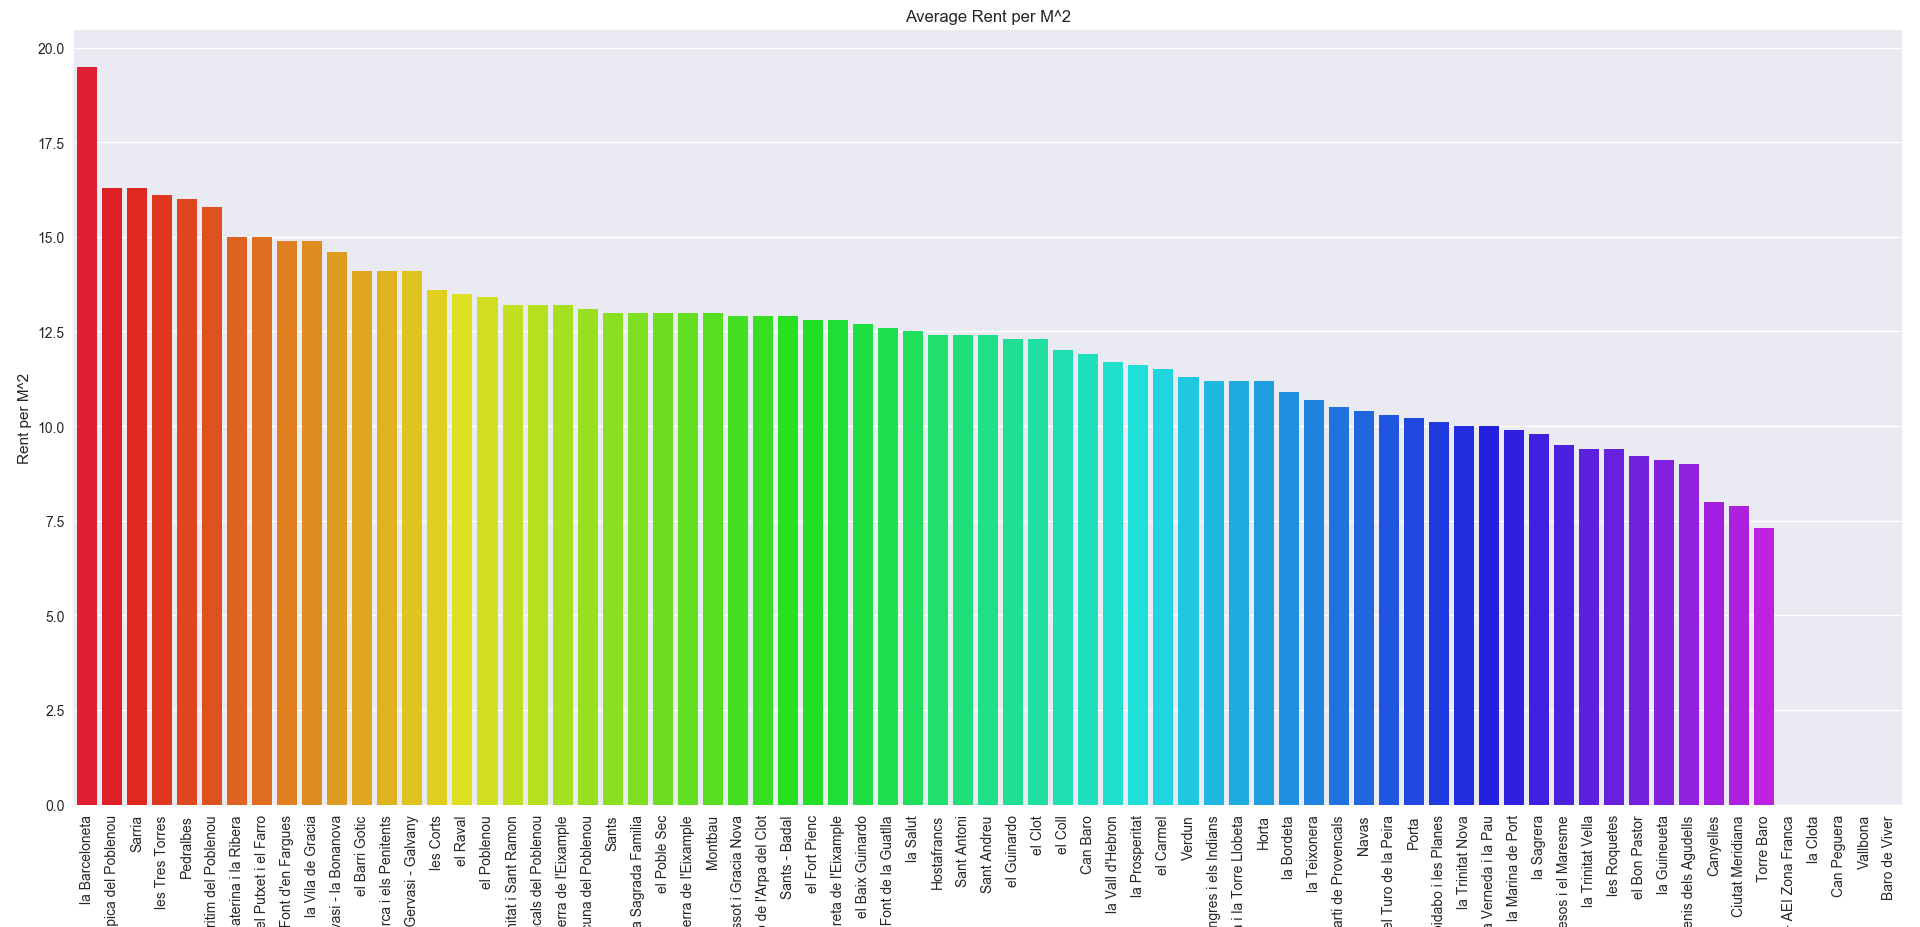
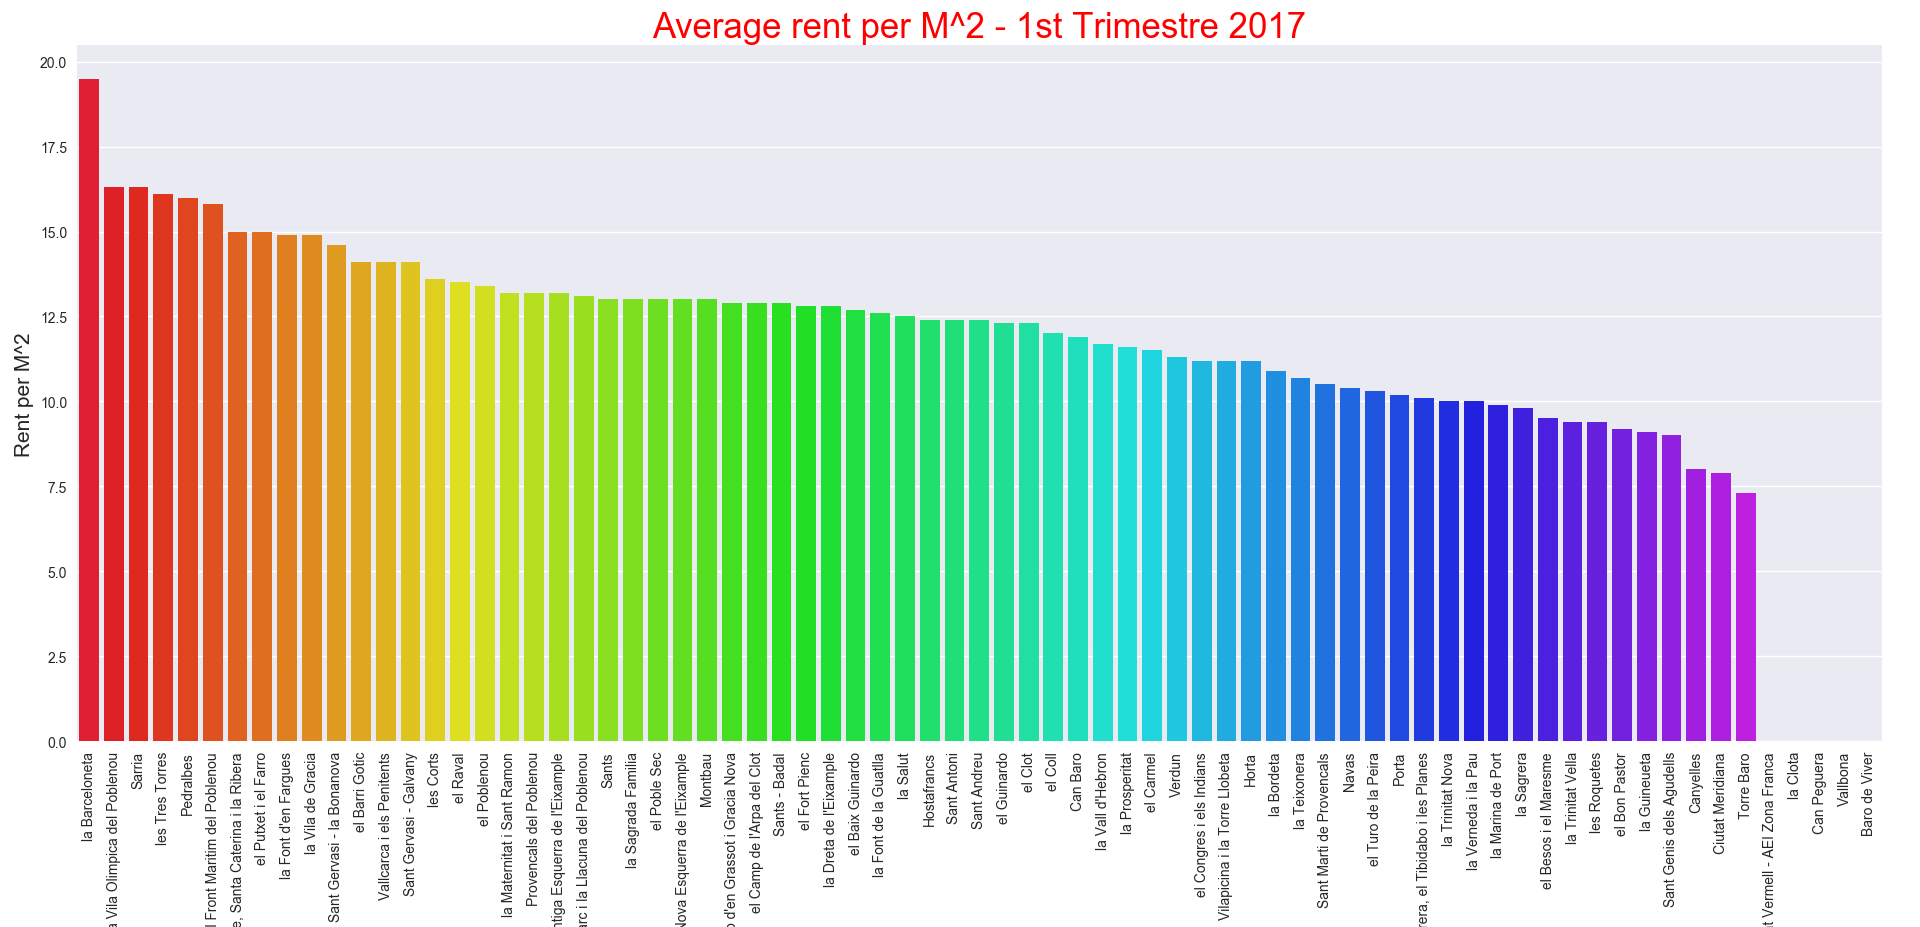
improved comparison graphs

diff --git a/visualization.py b/visualization.py
@@ -33,15 +33,18 @@ colors = ['RdPu', 'YlGn', 'OrRd', 'YlOrRd']
 #
 #     map.save(str(columns[i])+'.html')
 
+
 # UNCOMMENT TO DRAW COMPARISON BAR GRAPHS AND CHANGE THE "y='number_contracts'" AND "by='number_contracts'"
 # TO DRAW THE DIFFERENT GRAPHS
-# data_file.drop(['Unnamed: 0', 'Dte.'], inplace=True, axis=1)
-# compare = sns.barplot(x='Barris', y='number_contracts', palette='gist_rainbow',
-#                       data=data_file.sort_values(by='number_contracts', ascending=False))
-# for item in compare.get_xticklabels():
-#     item.set_rotation(90)
+compare = sns.barplot(x='Barris', y='average_rent_per_m2', palette='gist_rainbow',
+                      data=data_file.sort_values(by='average_rent_per_m2', ascending=False))
+compare.axes.set_title('Average rent per M^2 - 1st Trimestre 2017', size=25, color='r')
+compare.set_ylabel('Rent per M^2', size=15)
+for item in compare.get_xticklabels():
+    item.set_rotation(90)
 
-
+plt.subplots_adjust(top=0.95, bottom=0.2, left=0.04, right=0.98)
+plt.show()
 
 
 # OTHER STUFF DONT LOOK :P
